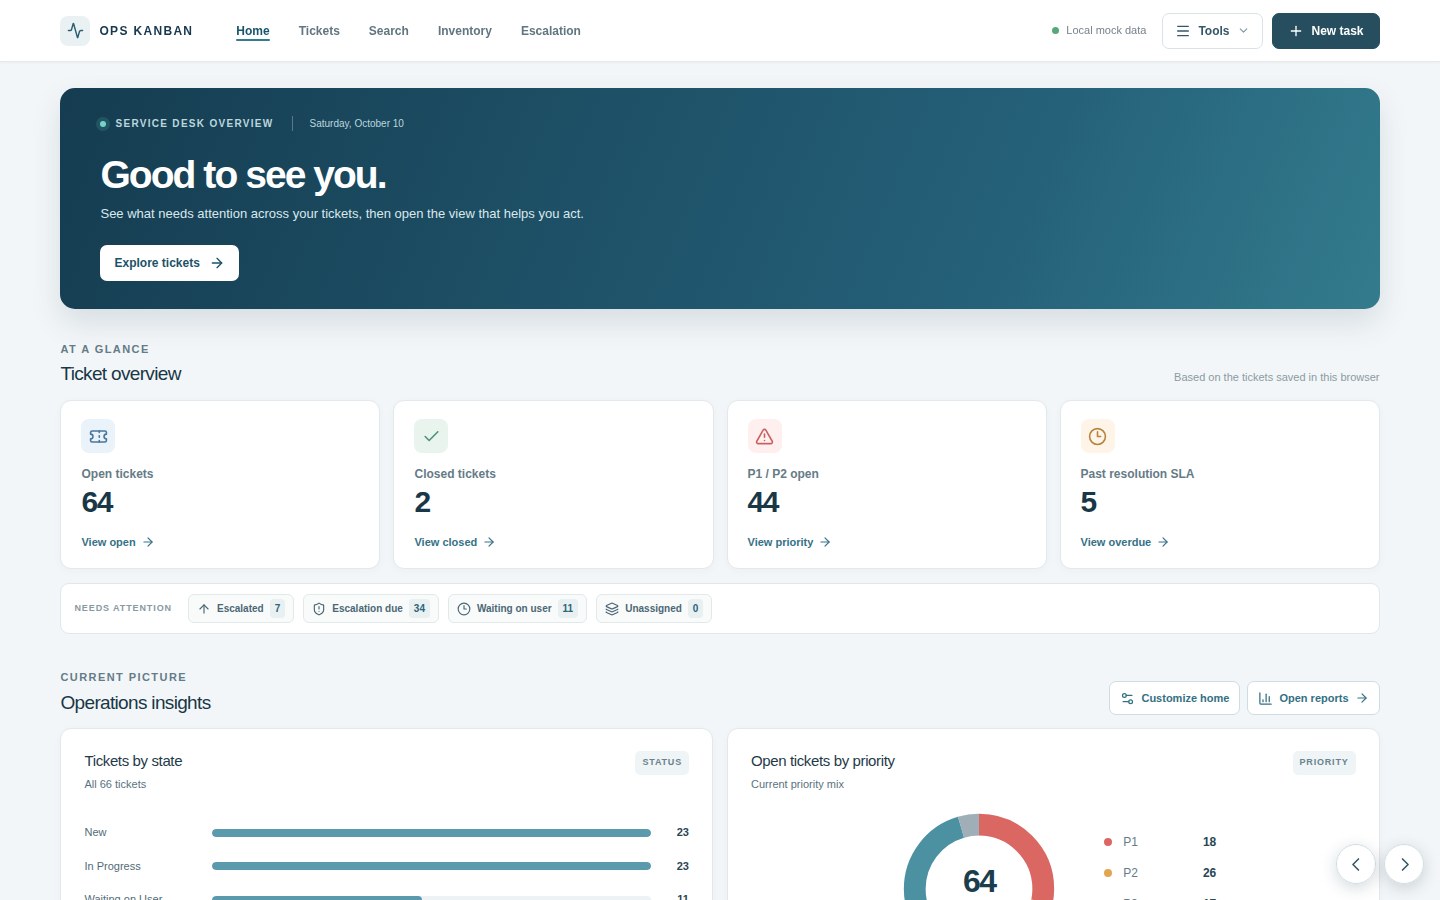
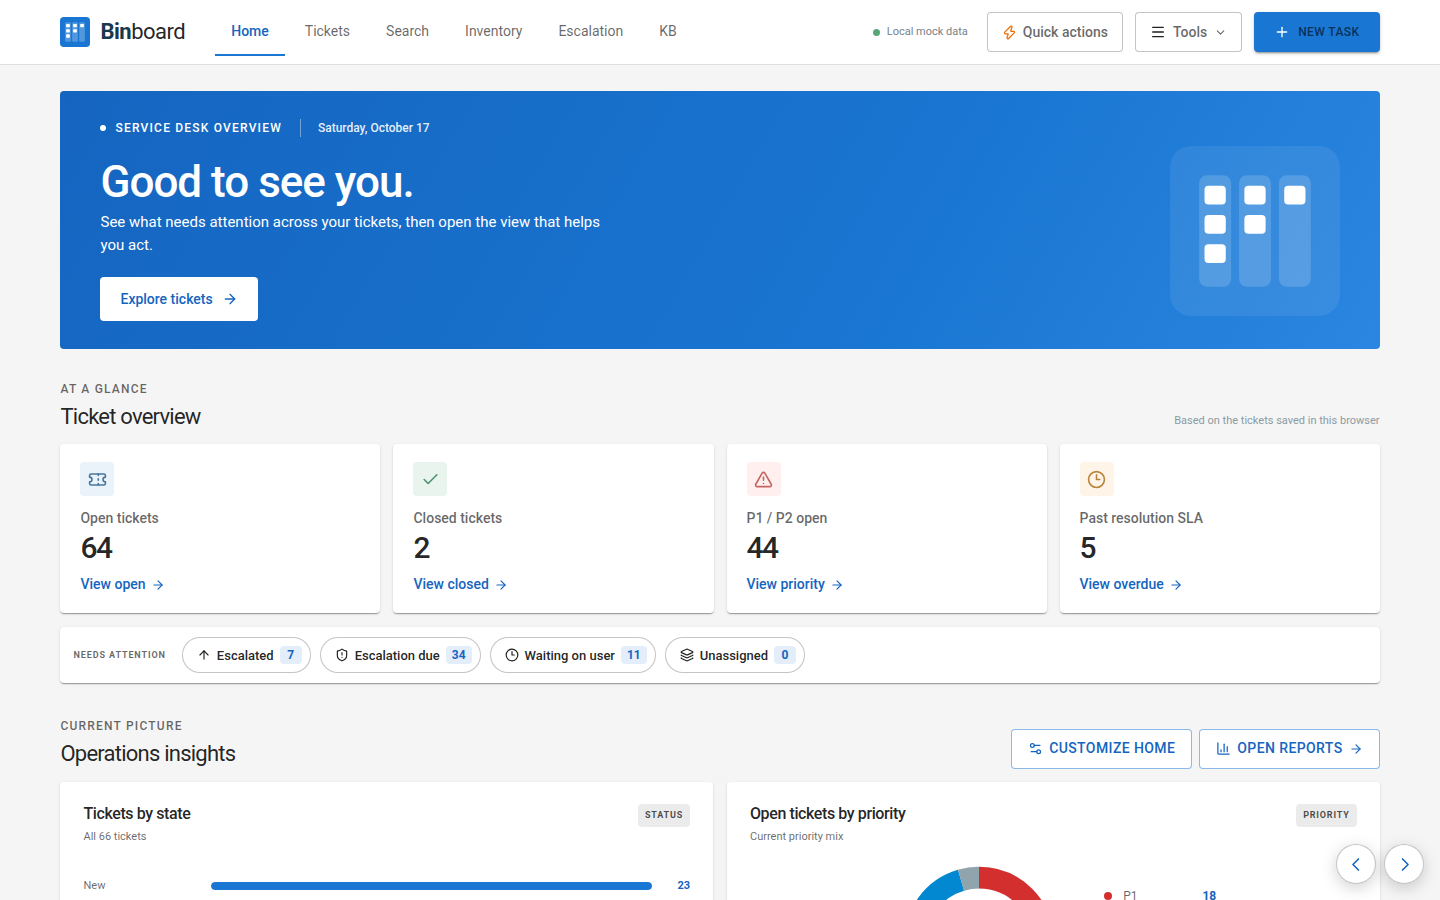
README: rename to Binboard, new screenshots, fix stale paths
- Title and intro say Binboard, with a line that the repo, hosting addresses and file names
  still use the original name (it-ticket-board).
- The four screenshots (Home, Tickets, Work notes, Inventory) are retaken from the current main
  build in the Binboard look; same sizes and scenes as before.
- Fixed paths that moved into app/src/lib/ (syncLogic.ts, cloudSync.ts, backup.ts).
- Tools → Sign in is also needed for drafting and asking in the Knowledge base (the KB routes
  require auth); the server row mentions all AI providers, not only Gemini.
- "What is in the source" gains a Look entry (theme files, bundled Roboto, the build-time
  recolour and how to turn it off); the test summary mentions the header layout checks.
- app/README.md and server/README.md headings say Binboard.

Claude-Session: https://claude.ai/code/session_0153yMKTS8TnQWDJw1c8mjAL

diff --git a/README.md b/README.md
@@ -1,12 +1,14 @@
-# IT Ticket Board
+# Binboard
 
 [![MIT License](https://img.shields.io/badge/license-MIT-blue.svg)](LICENSE)
 [![Tests](https://github.com/yuki-kat/it-ticket-board/actions/workflows/tests.yml/badge.svg)](https://github.com/yuki-kat/it-ticket-board/actions)
 
-An **IT service desk board** for tickets, SLAs, escalation and asset inventory. It runs two ways:
+**Binboard** is an IT service desk board for tickets, SLAs, escalation and asset inventory. It runs two ways:
 
 - **As one file, offline.** Double-click `index.html`. No install, no server, and your data stays in your browser.
 - **Hosted, with accounts.** The hosted site adds sign-in, shared team escalation settings and AI-suggested fixes, backed by a small Node + Postgres server.
+
+The repository, hosting addresses and file names still use the project's original name, `it-ticket-board`.
 
 **Try it:** open the **[live demo](https://yuki-kat.github.io/it-ticket-board/)**. It starts with sample tickets and assets, and your changes stay in your browser. You can also download [`index.html`](index.html) and open it, or use the [hosted site with sign-in](https://it-ticket-board-frontend.onrender.com) (free hosting, so the first visit can take about a minute to wake up).
 
@@ -90,7 +92,7 @@ docker compose exec db psql -U ticket_board -d ticket_board -c "UPDATE users SET
 | --- | --- |
 | `app/` | The front end: React + TypeScript, built with Vite. Every UI change is made here. |
 | `index.html` | **Built from `app/`** into one self-contained file (`cd app && npm run build:page`). Don't edit it by hand. |
-| `server/` | The backend: Express + Postgres. Handles sign-in, teams, escalation settings, document uploads and the Gemini proxy. |
+| `server/` | The backend: Express + Postgres. Handles sign-in, teams, escalation settings, document uploads and AI calls (Gemini, OpenAI, Claude or your own provider). |
 | `tests/` | Playwright browser tests that open `index.html` exactly as it ships. |
 | `supabase/` | SQL for workspaces and sync. |
 | `legacy/` | The old compiled page, kept for comparison. |
@@ -148,7 +150,7 @@ The site is public, and anyone can create an account.
 
 There are two separate sign-ins, for different features:
 
-- **Tools → Sign in** (email and password, handled by this repo's server). Needed for **Find resolution** and the **Escalation** page.
+- **Tools → Sign in** (email and password, handled by this repo's server). Needed for **Find resolution**, the **Escalation** page, and drafting or asking in the **Knowledge base**.
 - **Settings → Account** (an email link, handled by Supabase). Needed for **workspaces and sync**.
 
 Roles on the Escalation page:
@@ -188,7 +190,7 @@ Workspace roles: an **admin** can invite people, change roles and remove members
 - If two people change the same ticket, the change sent last wins for the whole ticket.
 - Before sync starts, what the browser had is kept: **Backup and restore → Put it back** returns to it and stops syncing.
 
-The rules are in `app/src/syncLogic.ts`, and sending and reading in `app/src/cloudSync.ts`.
+The rules are in `app/src/lib/syncLogic.ts`, and sending and reading in `app/src/lib/cloudSync.ts`.
 
 SLA pause state is kept in each browser and is not synced yet.
 
@@ -196,7 +198,7 @@ SLA pause state is kept in each browser and is not synced yet.
 
 **Settings → Backup and restore** downloads everything saved in the browser as one JSON file (`it-ticket-board-backup-YYYY-MM-DD.json`) and can restore from one. Restoring compares the file with what's in the browser and checks the file first, so a bad file changes nothing. It keeps the replaced data, so the last restore can be undone with **Put it back**.
 
-File format (`format: 1`): `{ app, format, createdAt, counts, records: { tickets, deletedTickets, assets, stock }, settings }`. The code is in `app/src/backup.ts`.
+File format (`format: 1`): `{ app, format, createdAt, counts, records: { tickets, deletedTickets, assets, stock }, settings }`. The code is in `app/src/lib/backup.ts`.
 
 ## What is in the source
 
@@ -206,12 +208,13 @@ File format (`format: 1`): `{ app, format, createdAt, counts, records: { tickets
 - **Home and Explore** (`HomePopouts.tsx`, `HomeInsights.tsx`, `ExplorePage.tsx`): dashboard cards, insights and queue drill-down.
 - **Inventory** (`pages/InventoryPage.tsx`, `InventoryView.tsx`): assets and stock.
 - **Knowledge base** (`pages/KnowledgePage.tsx`, `lib/kb.ts`): articles kept in the browser like tickets; AI calls go through `api/ai.ts`.
+- **Look** (`styles/binboard-theme.css`, `styles/design-system.css`, `components/BinboardLogo.tsx`): the Material UI style (blue, Roboto, 4px corners). Roboto is bundled so the single file works offline. `app/scripts/postcss-binboard.js` recolours the older stylesheets at build time; removing it from `postcss.config.js` brings back the original look.
 - **Page addresses** (`lib/route.ts`): `#/home`, `#/tickets`, `#/inventory`, `#/kb`, `#/search`, `#/explore/…`, `#/escalation` and `#/signin`. Back, Forward, refresh and bookmarks all work.
 - **Backend** (`server/src/api/`): `auth`, `teams`, `escalation-matrix` (uploads are stored in Postgres, up to 10 MB each), `escalation-advanced` (groups, rules, thresholds), and AI: `ai-providers` (admin-managed providers, keys encrypted by `utils/secretBox.ts`), `kb` (draft and ask), and the older `gemini` and `suggest-fix` routes. All of them call `utils/aiProviders.ts`, which picks the default provider (or `GEMINI_API_KEY`) and blocks custom URLs that point at private networks.
 
 ## Automated tests
 
-The browser tests in `tests/` open the real `index.html` in Chrome and click through the app: Home and Explore, every popup, page addresses, insights, opening tickets, SLA pause and resume, the State dropdown, Find resolution, team pages and thresholds, Inventory, every export, backups, sign-in, workspaces and sync. Each test starts with a fresh browser profile. Tests that need a server talk to stand-ins (`tests/fake-supabase.ts` and per-test fake backends), so they need no account and no network.
+The browser tests in `tests/` open the real `index.html` in Chrome and click through the app: Home and Explore, every popup, page addresses, insights, opening tickets, SLA pause and resume, the State dropdown, Find resolution, team pages and thresholds, Inventory, every export, backups, sign-in, workspaces and sync, and the header layout from phone to desktop widths. Each test starts with a fresh browser profile. Tests that need a server talk to stand-ins (`tests/fake-supabase.ts` and per-test fake backends), so they need no account and no network.
 
 ```bash
 cd tests && npm ci && npm test

diff --git a/app/README.md b/app/README.md
@@ -1,6 +1,6 @@
-# IT Ticket Board — Source
+# Binboard — Source
 
-The React + TypeScript source for IT Ticket Board. Builds into a single self-contained HTML file for offline use or team collaboration.
+The React + TypeScript source for Binboard. Builds into a single self-contained HTML file for offline use or team collaboration.
 
 ## Quick Start
 

diff --git a/server/README.md b/server/README.md
@@ -1,6 +1,6 @@
-# IT Ticket Board Backend
+# Binboard Backend
 
-Express.js + PostgreSQL backend for the IT Ticket Board.
+Express.js + PostgreSQL backend for Binboard.
 
 ## Quick Start
 
